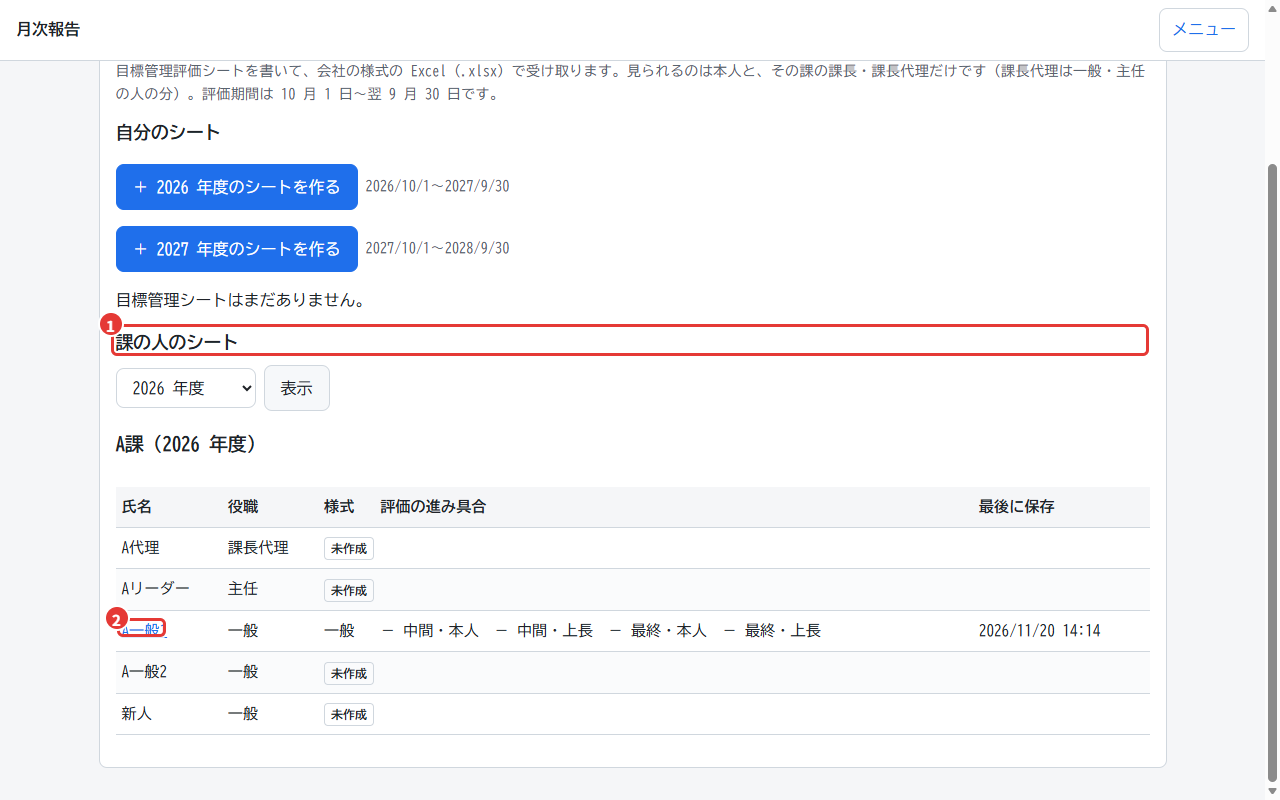
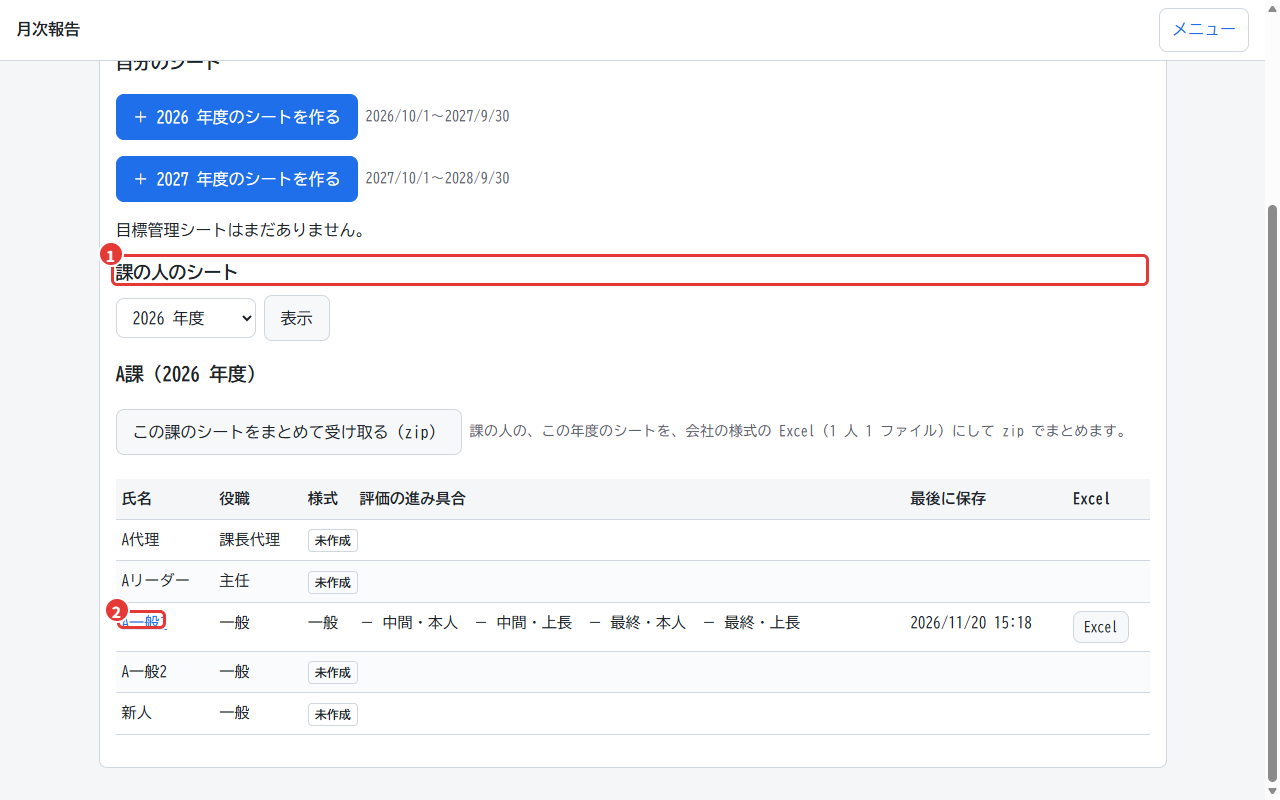
目標管理: 課長が一覧から、課の人のシートを 1 人ずつ・まとめて（zip）受け取れるようにした

diff --git a/tools/test/smoke_goals.py b/tools/test/smoke_goals.py
@@ -225,6 +225,28 @@ def main():
     client_of("kacho_a").get("/goals/download.php?id=%d" % manager_sheet_id)
     manager_sheet_xml = zipfile.ZipFile(io.BytesIO(client_of("kacho_a").last_raw)).read("xl/worksheets/sheet4.xml").decode("utf-8")
     check("業績目標（計画 1,000・実績 1,100 → 達成率 1.1・評点 4）", (cell_value(manager_sheet_xml, "B8"), cell_value(manager_sheet_xml, "C8"), cell_value(manager_sheet_xml, "D8"), cell_value(manager_sheet_xml, "E8")) == ("1000", "1100", "1.1", "4"))
+    section("G-27", "目標管理: 課長が一覧から受け取る（1 人ずつ・まとめて）")
+    department_a_id = json.load(open(os.path.join(test_dir, "output_dev_users.json"), encoding="utf-8"))["dept_a"]
+    _, _, boss_list_html = client_of("kacho_a").get("/goals/index.php?year=%d" % fiscal_year)
+    check("課長の一覧に、1 人ずつの Excel（シートのある 2 人）と、まとめて受け取るボタンが出る",
+          boss_list_html.count("goal-download-one") == 2 and "/goals/download.php?id=%d" % sheet_id in boss_list_html
+          and "/goals/download_all.php?year=%d&amp;dept=%d" % (fiscal_year, department_a_id) in boss_list_html)
+    _, _, deputy_list_html = client_of("dairi_a").get("/goals/index.php?year=%d" % fiscal_year)
+    check("課長代理の一覧には、Excel もまとめて受け取るボタンも出ない", "goal-download-one" not in deputy_list_html and "goal-download-all" not in deputy_list_html)
+    status_code, _, _ = client_of("kacho_a").get("/goals/download_all.php?year=%d&dept=%d" % (fiscal_year, department_a_id))
+    bulk_zip = zipfile.ZipFile(io.BytesIO(client_of("kacho_a").last_raw)) if status_code == 200 else None
+    entry_names = sorted(bulk_zip.namelist()) if bulk_zip else []
+    check("課長がまとめて受け取ると、課の人のシートが 1 人 1 つの xlsx で zip に入る（課長自身のシートは入らない）",
+          status_code == 200 and len(entry_names) == 2 and any("A一般1" in name for name in entry_names) and any("A代理" in name for name in entry_names)
+          and not any("A課長" in name for name in entry_names), (status_code, entry_names))
+    check("zip の中の xlsx は、それぞれ開ける（中の zip が壊れていない）",
+          bool(entry_names) and all(zipfile.ZipFile(io.BytesIO(bulk_zip.read(name))).testzip() is None for name in entry_names))
+    check("zip のファイル名に年度と課の名前", "%d%%E5%%B9%%B4%%E5%%BA%%A6_A%%E8%%AA%%B2.zip" % fiscal_year in client_of("kacho_a").last_headers.get("Content-Disposition", ""))
+    for login_id in ("dairi_a", "kacho_b", "admin01", "ippan_a1"):
+        bulk_status, _, _ = client_of(login_id).get("/goals/download_all.php?year=%d&dept=%d" % (fiscal_year, department_a_id))
+        check("%s は、A課のシートをまとめて受け取れない（403）" % login_id, bulk_status == 403, bulk_status)
+    _, _, history_html = owner.get("/goals/edit.php?id=%d" % sheet_id)
+    check("まとめて受け取ったことも、シートの更新の履歴に残る", history_html.count("Excel を受け取った") >= 2)
     owner.headers["User-Agent"] = MOBILE_USER_AGENT
     status_code, _, _ = owner.get("/goals/download.php?id=%d" % sheet_id)
     check("スマートフォンでは受け取れない（PC から）", status_code == 403, status_code)

diff --git a/app/views/goal_list.php b/app/views/goal_list.php
@@ -3,7 +3,8 @@
 /** @var int[] $newYearList まだ作っていない、作れる年度 */
 /** @var int $selectedYear 課長・課長代理の一覧で見る年度 */
 /** @var int[] $yearOptionList */
-/** @var array<int, array{department_name: string, members: array<int, array<string, mixed>>}> $memberOverview */
+/** @var array<int, array{department_id: int, department_name: string, is_boss: bool, members: array<int, array<string, mixed>>}> $memberOverview */
+/** @var bool $isMobile */
 $progressLabel = function (?array $progressFlags): string {
     if ($progressFlags === null) {
         return '';
@@ -55,23 +56,29 @@ $progressLabel = function (?array $progressFlags): string {
     </form>
     <?php foreach ($memberOverview as $departmentOverview): ?>
       <h3><?= h($departmentOverview['department_name']) ?>（<?= (int) $selectedYear ?> 年度）</h3>
+      <?php $canDownloadMembers = $departmentOverview['is_boss'] && !$isMobile; ?>
+      <?php if ($canDownloadMembers && array_filter(array_column($departmentOverview['members'], 'sheet'))): ?>
+        <p><a class="button goal-download-all" href="<?= h(url('/goals/download_all.php?year=' . $selectedYear . '&dept=' . $departmentOverview['department_id'])) ?>">この課のシートをまとめて受け取る（zip）</a>
+          <span class="note"><?= h(msg('課の人の、この年度のシートを、会社の様式の Excel（1 人 1 ファイル）にして zip でまとめます。')) ?></span></p>
+      <?php endif; ?>
       <?php if (!$departmentOverview['members']): ?>
         <p class="note"><?= h(msg('見られる人がいません。')) ?></p>
       <?php else: ?>
         <div class="table-wrap">
         <table class="table goal-list-table">
-          <thead><tr><th>氏名</th><th>役職</th><th>様式</th><th>評価の進み具合</th><th>最後に保存</th></tr></thead>
+          <thead><tr><th>氏名</th><th>役職</th><th>様式</th><th>評価の進み具合</th><th>最後に保存</th><?php if ($canDownloadMembers): ?><th>Excel</th><?php endif; ?></tr></thead>
           <tbody>
             <?php foreach ($departmentOverview['members'] as $memberItem): ?>
               <tr>
                 <td><?php if ($memberItem['sheet'] !== null): ?><a href="<?= h(url('/goals/edit.php?id=' . $memberItem['sheet']['id'])) ?>"><?= h($memberItem['name']) ?></a><?php else: ?><?= h($memberItem['name']) ?><?php endif; ?></td>
                 <td><?= h($memberItem['role']) ?></td>
                 <?php if ($memberItem['sheet'] === null): ?>
-                  <td colspan="3"><span class="badge">未作成</span></td>
+                  <td colspan="<?= $canDownloadMembers ? 4 : 3 ?>"><span class="badge">未作成</span></td>
                 <?php else: ?>
                   <td><?= h(GOAL_TEMPLATE_KINDS[$memberItem['sheet']['kind']]['label']) ?></td>
                   <td><?= h($progressLabel($memberItem['progress'])) ?></td>
                   <td><?= h(display_datetime($memberItem['sheet']['updated_at'])) ?></td>
+                  <?php if ($canDownloadMembers): ?><td><a class="button small goal-download-one" href="<?= h(url('/goals/download.php?id=' . $memberItem['sheet']['id'])) ?>">Excel</a></td><?php endif; ?>
                 <?php endif; ?>
               </tr>
             <?php endforeach; ?>

diff --git a/app/lib/goal.php b/app/lib/goal.php
@@ -180,7 +180,7 @@ function goal_viewer_role(array $viewer, int $ownerUserId): ?string
 /**
  * 課長・課長代理として見られる人（課ごと）。その年度のシートの有無と、評価の進み具合も付ける
  *
- * @return array<int, array{department_name: string, members: array<int, array<string, mixed>>}>
+ * @return array<int, array{department_id: int, department_name: string, is_boss: bool, members: array<int, array<string, mixed>>}>
  */
 function goal_member_overview(array $viewer, int $fiscalYear): array
 {
@@ -208,7 +208,12 @@ function goal_member_overview(array $viewer, int $fiscalYear): array
                 'progress' => $memberSheet !== null ? goal_progress($memberSheet) : null,
             ];
         }
-        $overviewList[] = ['department_name' => (string) db_val('SELECT name FROM departments WHERE id = ?', [$departmentId]), 'members' => $memberList];
+        $overviewList[] = [
+            'department_id'   => (int) $departmentId,
+            'department_name' => (string) db_val('SELECT name FROM departments WHERE id = ?', [$departmentId]),
+            'is_boss'         => is_final_reviewer_of((int) $viewer['id'], (int) $departmentId),   // 課長なら、一覧から受け取れる
+            'members'         => $memberList,
+        ];
     }
     return $overviewList;
 }
@@ -618,6 +623,28 @@ function goal_xlsx(array $sheet): string
     $workbookXml = (string) preg_replace('/<workbookView\b/', '<workbookView activeTab="' . $sheetIndex . '"', $workbookXml, 1);
     $entryByName['xl/workbook.xml'] = (string) preg_replace('/<calcPr\b(?![^>]*fullCalcOnLoad)/', '<calcPr fullCalcOnLoad="1"', $workbookXml, 1);
     return zip_store($entryByName);
+}
+
+/**
+ * 課長が、課の人のその年度のシートをまとめて受け取る（zip の中に 1 人 1 つの xlsx）。課長自身・ほかの課長のシートは入れない。
+ * 受け取ったことは、それぞれのシートの更新の履歴に残す。シートが 1 つも無ければ null
+ */
+function goal_department_zip(array $viewer, int $departmentId, int $fiscalYear): ?string
+{
+    $entryByName = [];
+    foreach (db_all('SELECT s.id FROM goal_sheets s JOIN users u ON u.id = s.user_id WHERE u.department_id = ? AND s.fiscal_year = ? ORDER BY u.id', [$departmentId, $fiscalYear]) as $sheetRow) {
+        $memberSheet = goal_sheet((int) $sheetRow['id']);
+        if ($memberSheet === null || $memberSheet['unreadable'] || goal_viewer_role($viewer, $memberSheet['user_id']) !== 'boss') {
+            continue;
+        }
+        $entryName = goal_xlsx_file_name($memberSheet);
+        if (isset($entryByName[$entryName])) {
+            $entryName = substr($entryName, 0, -5) . '_' . $memberSheet['user_id'] . '.xlsx';   // 同じ氏名の人がいたら、利用者の番号で分ける
+        }
+        $entryByName[$entryName] = goal_xlsx($memberSheet);
+        goal_add_history($memberSheet['id'], (int) $viewer['id'], 'download');
+    }
+    return $entryByName ? zip_store($entryByName) : null;
 }
 
 /** ダウンロードのファイル名（例: 目標管理評価シート_2026年度_A一般1.xlsx） */

diff --git a/app/lib/messages_catalog.php b/app/lib/messages_catalog.php
@@ -318,6 +318,7 @@ return [
     '総務の様式に、保存した内容を入れたファイルです。' => ['screens' => ['G-26 通勤定期代の精算']],
     '通勤定期代の精算書を作って、総務の様式の Excel（.xlsx）で受け取ります。精算書を見られるのは自分だけです。月次報告とは別の機能で、承認の流れはありません。' => ['screens' => ['G-26 通勤定期代の精算']],
     'このシートは読めません（暗号の鍵が変わった可能性があります）。システム管理者に連絡してください。' => ['screens' => ['G-27 目標管理']],
+    'この年度の課の人のシートは、まだありません。' => ['screens' => ['G-27 目標管理']],
     'この様式は選べません（様式は役職で決まります）。' => ['screens' => ['G-27 目標管理']],
     'コメント' => ['screens' => ['G-27 目標管理']],
     'コメントはまだありません。' => ['screens' => ['G-27 目標管理']],
@@ -332,6 +333,7 @@ return [
     '目標管理評価シートを書いて、会社の様式の Excel（.xlsx）で受け取ります。見られるのは本人と、その課の課長・課長代理だけです（課長代理は一般・主任の人の分）。評価期間は 10 月 1 日〜翌 9 月 30 日です。' => ['screens' => ['G-27 目標管理']],
     '見られる人がいません。' => ['screens' => ['G-27 目標管理']],
     '評価を保存しました' => ['screens' => ['G-27 目標管理']],
+    '課の人の、この年度のシートを、会社の様式の Excel（1 人 1 ファイル）にして zip でまとめます。' => ['screens' => ['G-27 目標管理']],
     '課長として、配点・上長評価・総合評価を入れて「評価を保存」を押します。本人が書いた欄は直せません（直してほしいことは、コメントか面談で伝えてください）。' => ['screens' => ['G-27 目標管理']],
     '課長代理として、見てコメントできます（評価は課長が入れます）。面談をしたら、記録を残してください。' => ['screens' => ['G-27 目標管理']],
     '課長以上の様式を選んでいます。営業・間接部門の人は切り替えてください（コンピテンシーの項目が変わります）。' => ['screens' => ['G-27 目標管理']],

diff --git a/app/pages/goal_download_all.php b/app/pages/goal_download_all.php
@@ -1,0 +1,31 @@
+<?php
+
+declare(strict_types=1);
+
+// ====================================================================
+// G-27 目標管理: 課長が、課の人のその年度のシートをまとめて受け取る（zip。詳細設計書 G27_goals.md）
+//   GET ?year=<年度>&dept=<課 ID>
+// その課の課長だけ（課長代理・ほかの課の課長は 403）。PC からだけ。中は 1 人 1 つの、会社の様式の xlsx。
+// ====================================================================
+
+$user = page_start();
+$fiscalYear = input_id('year');
+$departmentId = input_id('dept');
+if (!is_final_reviewer_of((int) $user['id'], $departmentId)) {
+    error_page(403);
+}
+if (is_mobile_request()) {
+    error_page(403, msg('目標管理シートのファイルは PC で受け取ってください。'));
+}
+$zipBytes = goal_department_zip($user, $departmentId, $fiscalYear);
+if ($zipBytes === null) {
+    flash('info', msg('この年度の課の人のシートは、まだありません。'));
+    redirect('/goals/index.php?year=' . $fiscalYear . '#members');
+}
+$departmentName = (string) preg_replace('/[\\\\\/:*?"<>|\s]+/u', '', (string) db_val('SELECT name FROM departments WHERE id = ?', [$departmentId]));
+header('Content-Type: application/zip');
+header("Content-Disposition: attachment; filename=\"goals.zip\"; filename*=UTF-8''" . rawurlencode('目標管理評価シート_' . $fiscalYear . '年度_' . ($departmentName !== '' ? $departmentName : 'dept') . '.zip'));
+header('Content-Length: ' . strlen($zipBytes));
+header('Cache-Control: no-store');
+echo $zipBytes;
+exit;

diff --git a/tools/lib/msg_catalog.py b/tools/lib/msg_catalog.py
@@ -45,7 +45,7 @@ SCREEN_NAME_BY_FILE_NAME = {
     "admin_notices.php": "G-24 更新のお知らせ", "faq.php": "G-25 よくある質問",
     "expense.php": "G-26 通勤定期代の精算", "expense_list.php": "G-26 通勤定期代の精算", "expense_edit.php": "G-26 通勤定期代の精算",
     "expense_download.php": "G-26 通勤定期代の精算",
-    "goal.php": "G-27 目標管理", "goal_list.php": "G-27 目標管理", "goal_edit.php": "G-27 目標管理", "goal_download.php": "G-27 目標管理",
+    "goal.php": "G-27 目標管理", "goal_list.php": "G-27 目標管理", "goal_edit.php": "G-27 目標管理", "goal_download.php": "G-27 目標管理", "goal_download_all.php": "G-27 目標管理",
     "notice.php": "共通（画面ごとの使い方）", "maintenance.php": "共通（メンテナンス）", "backup.php": "G-21 管理のトップ",
     "support_request_list.php": "G-22 要望・依頼", "support_request_view.php": "G-22 要望・依頼", "support_request.php": "G-22 要望・依頼",
     "form.php": "共通（入力の確認）",

diff --git a/app/pages/goal_list.php b/app/pages/goal_list.php
@@ -30,4 +30,5 @@ render('goal_list', [
     'selectedYear'      => $selectedYear,
     'yearOptionList'    => array_values(array_unique(array_merge($creatableYearList, $existingYearList, [$selectedYear]))),
     'memberOverview'    => goal_member_overview($user, $selectedYear),
+    'isMobile'          => is_mobile_request(),
 ]);

diff --git a/public/goals/download_all.php b/public/goals/download_all.php
@@ -1,0 +1,6 @@
+<?php
+
+declare(strict_types=1);
+
+require __DIR__ . '/../_boot.php';
+require APP_DIR . '/pages/goal_download_all.php';

diff --git a/docs/detailed_design/G27_goals.md b/docs/detailed_design/G27_goals.md
@@ -2,7 +2,7 @@
 
 | 項目 | 内容 |
 |---|---|
-| URL | `/goals/index.php`（一覧。`?year=<年度>` で課の人の年度を選ぶ）、`/goals/edit.php`（GET: `?id=<ID>` で開く、`?year=<年度>&kind=<種類>` で自分のシートを作る。POST: `action` = `save_owner`・`save_boss`・`comment`・`reply`・`meeting`）、`/goals/download.php?id=<ID>`（様式の xlsx） |
+| URL | `/goals/index.php`（一覧。`?year=<年度>` で課の人の年度を選ぶ）、`/goals/edit.php`（GET: `?id=<ID>` で開く、`?year=<年度>&kind=<種類>` で自分のシートを作る。POST: `action` = `save_owner`・`save_boss`・`comment`・`reply`・`meeting`）、`/goals/download.php?id=<ID>`（様式の xlsx）、`/goals/download_all.php?year=<年度>&dept=<課 ID>`（課長が課の人のシートをまとめて受け取る zip） |
 | ファイル | `app/pages/goal_list.php`・`goal_edit.php`・`goal_download.php`、`app/views/goal_list.php`・`goal_edit.php`、`app/lib/goal.php`、`app/lib/goal_templates.php`（様式から作る定数。`tools/lib/goal_template_gen.py`）、`app/templates/goal_general.xlsx`・`goal_leader.xlsx`・`goal_manager.xlsx`（会社の様式） |
 | 利用者 | 全員（自分のシート）、課長・課長代理（課の人のシート） |
 | 主な端末 | PC |
@@ -31,6 +31,7 @@
 - 課は、シートの持ち主の今の所属の課（異動すると、新しい課の課長・課長代理が見る）。
 - 課長のシートは本人だけが見る（課長の上長はこのシステムにいないため）。課長代理のシートは課長が見る（課長代理どうしは見ない）。
 - 一覧（`/goals/index.php`）: 自分のシート（年度・様式・評価の進み具合・最後に保存）と、今の年度・次の年度のシートを作るボタン。課長・課長代理には、見られる人の一覧（その年度のシートの有無・評価の進み具合）。
+- 課長（その課の最終確認者）の一覧には、人ごとの「Excel」（その人の xlsx）と「この課のシートをまとめて受け取る（zip）」を出す（PC だけ）。zip には、その年度の、課長が評価する人のシートを 1 人 1 つの xlsx（ファイル名は 3.4 と同じ。同じ氏名なら利用者の番号を足す）で入れる。課長自身・ほかの課長のシートは入れない。課長代理・ほかの課の課長・管理者がまとめて受け取ろうとしたら 403。シートが 1 つも無ければ、その旨を出して一覧に戻す。受け取ったことは、それぞれのシートの更新の履歴に残す。
 
 ## 3. シート
 
@@ -109,4 +110,5 @@
 - 様式の欄に収まらない長さ、同じ年度のシートは 1 つ、面談の日
 - 様式は役職で決まる（一般には選ぶ欄を出さない・URL で別の様式を指定しても変わらない・送っても 403。課長は 3 つから選べる）
 - コメント・返信・面談の記録、消す操作がない、更新の履歴、暗号化
+- 課長の一覧から 1 人ずつ・まとめて（zip）受け取れる。課長代理には出さない。課長代理・ほかの課の課長・管理者・本人はまとめて受け取れない（403）
 - 評点の計算、xlsx（値の入るセル・行に分けた文・目標 2 の位置・式の値・業績目標・開くシート・様式のほかの部分がそのまま）、スマートフォンでは受け取れない

diff --git a/docs/operation_manual.md b/docs/operation_manual.md
@@ -1089,7 +1089,10 @@ LibreOffice Calc でそのまま開けます。「ダウンロード」フォル
 ![総合評価と評価を保存。1 総合評価、2 評価を保存](manual/images/m14_09_boss_save.png)
 
 3. コンピテンシーの上長評価と、総合評価（図の 1）を選び、「評価を保存」（図の 2）を押す。
-4. 管理部へ出すときは、シートの上の「会社の様式の Excel を受け取る（.xlsx）」で、人ごとのファイルを受け取ります。
+4. 管理部へ出すときは、「課の人のシート」の一覧から受け取ります（PC だけ）。
+    - 1 人ずつ: その人の行の「Excel」を押す（シートを開いて、上の「会社の様式の Excel を受け取る（.xlsx）」を押しても同じです）。
+    - まとめて: 一覧の上の「この課のシートをまとめて受け取る（zip）」を押すと、その年度の課の人のシートが、1 人 1 ファイルの Excel になって zip にまとまります（`目標管理評価シート_<年度>年度_<課の名前>.zip`）。zip のファイルは、右クリックして「ここで展開」（Windows は「すべて展開」）で開きます。
+    - 課長代理の一覧には、この 2 つは出ません。
 
 ### 14.4 コメント・面談の記録（本人・課長・課長代理）
 
